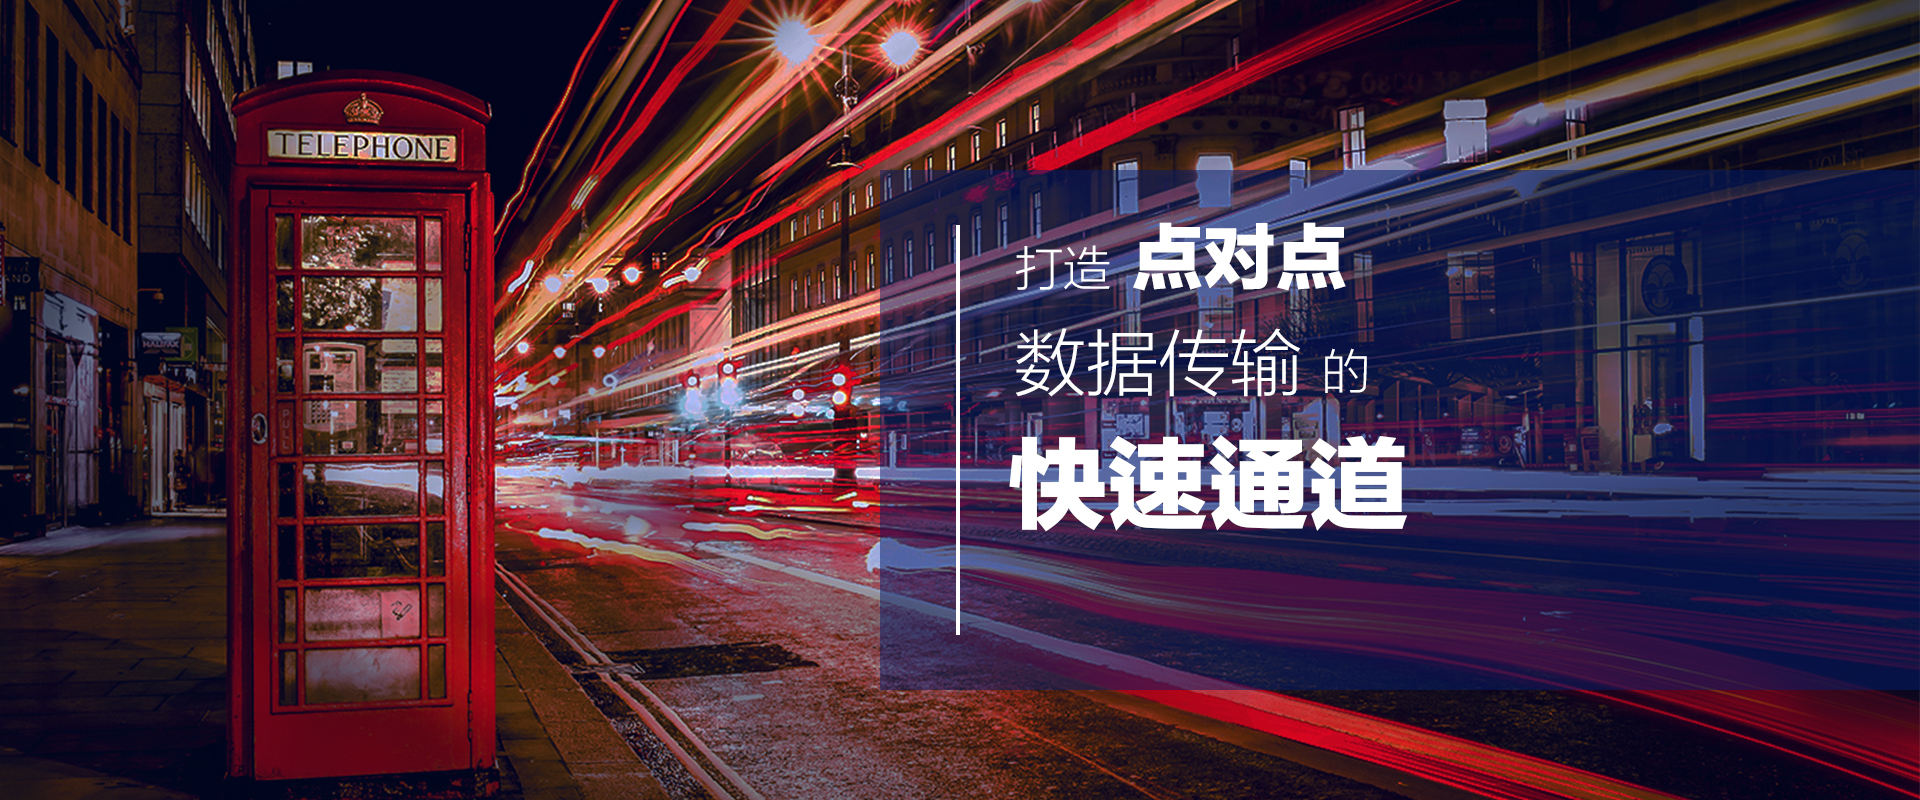
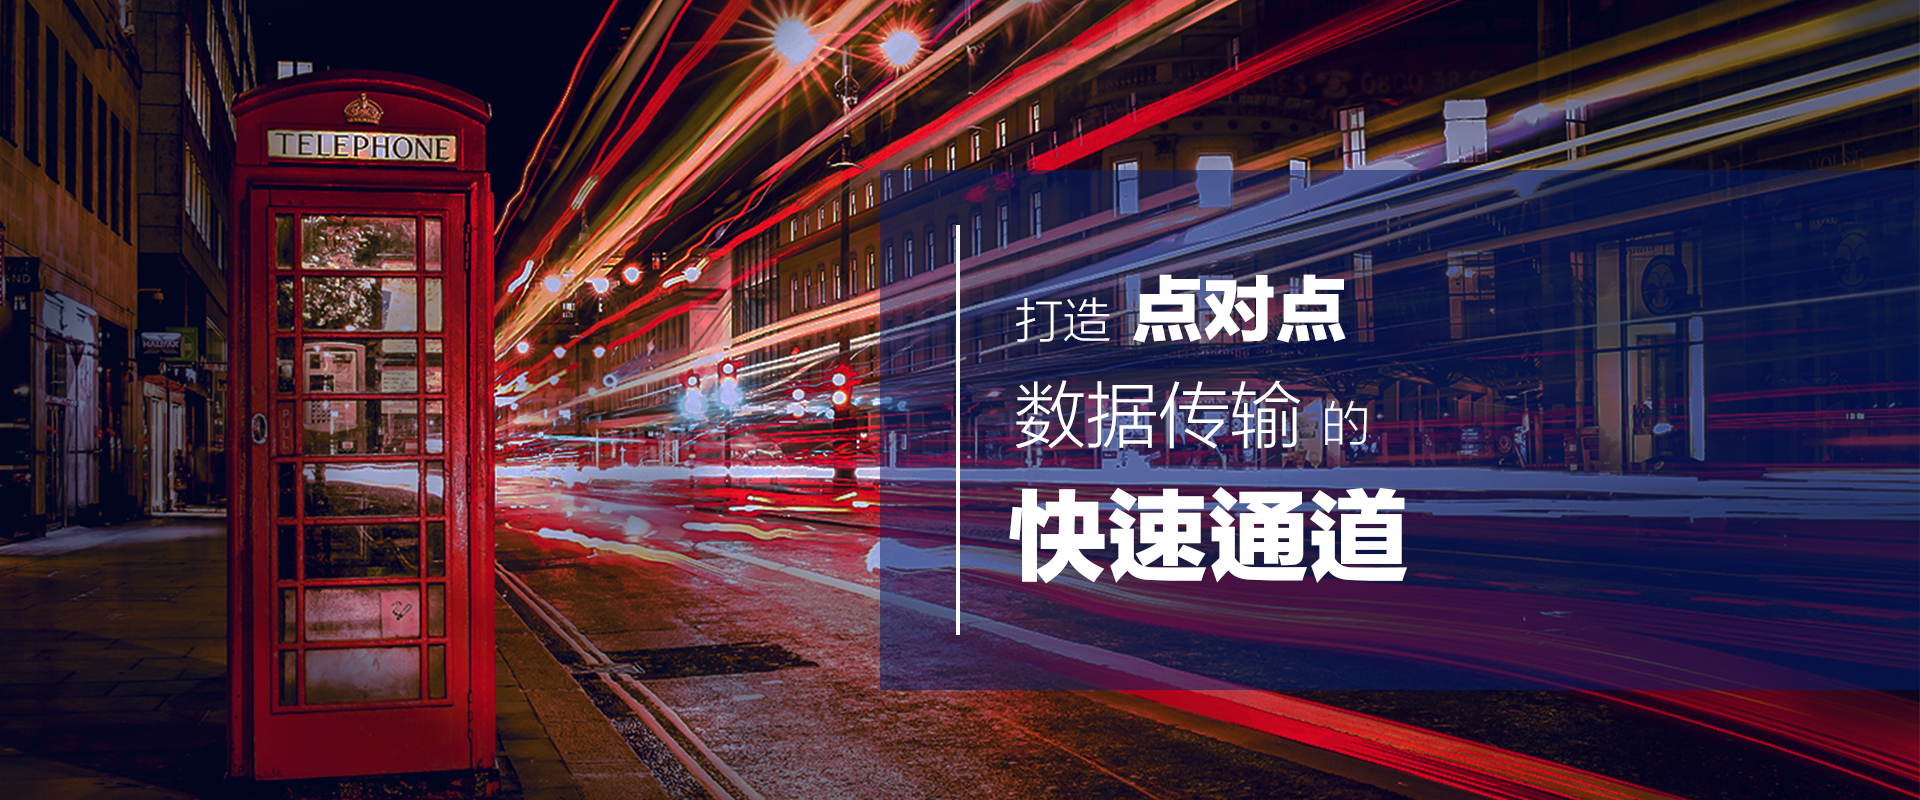
新增首页返回顶部按钮

Changed region(s): [[0.5, 0.2812, 0.75, 0.75]]

diff --git a/pages/carousel/smallCarousel.html b/pages/carousel/smallCarousel.html
@@ -19,26 +19,24 @@
     }
     #sectionOfSmall0 {
         position: relative;
-        background-image: url('img/banner/bannerOfSmall1.png');
+        background-image: url('img/banner/banner1_S.jpg');
         height: 100%;
         background-size: 100% 600px;
         background-clip: content-box;
     }
     #topSectionOfSmall0{
-        background: url('img/banner/topBannerOfSmall1.png') no-repeat;
         height: 600px;
         width: 594px;
         position: relative;
     }
     #sectionOfSmall1 {
         position: relative;
-        background-image: url('img/banner/bannerOfSmall2.png');
+        background-image: url('img/banner/banner2_S.jpg');
         height: 100%;
         background-size: 100% 600px;
         background-clip: content-box;
     }
     #topSectionOfSamll1 {
-        background: url('img/banner/topBannerOfSamll2.png') no-repeat;
         height: 460px;
         width: 748px;
         position: relative;
@@ -56,20 +54,19 @@
     }
     #sectionOfSmall2 {
         position: relative;
-        background-image: url('img/banner/bannerOfSmall3.png');
+        background-image: url('img/banner/banner3_S.jpg');
         height: 100%;
         background-size: 100% 600px;
         background-clip: content-box;
     }
     #topSectionOfSmall2 {
-        background: url('img/banner/topBannerOfSmall3.png') no-repeat;
         height: 530px;
         width: 520px;
         position: relative;
     }
     #sectionOfSmall2Button{
         top: 83%;
-        left: 60%;
+        left: 50%;
         height: 50px;
         width: 160px;
         background: url('img/banner/detailHoverBtn.png');

diff --git a/config/layer.js b/config/layer.js
@@ -3382,21 +3382,21 @@ var constructionLayer ={
             "filter": ["all", ["in", "capital", 0], ["==", "type", 0]]
         },
         {
-            id: 'construction_Layer',
-            type: 'symbol',
-            interactive: true,
+            "id": "construction_Layer",
+            "type": "symbol",
+            "interactive": true,
             "source" : "construction",
-            'source-layer': 'construction',
-            minzoom: 0,
-            maxzoom: 17.1,
-            layout:
+            "source-layer": "construction",
+            "minzoom": 0,
+            "maxzoom": 17.1,
+            "layout":
                 {
-                    'icon-image': 'constructionIcon',
-                    'icon-size': 0.4,
+                    "icon-image": "constructionIcon",
+                    "icon-size": 0.4,
                 },
-            paint:
+            "paint":
                 {
-                    'icon-color': '#ff2d2d',
+                    "icon-color": "#ff2d2d",
                 },
 
         }]

diff --git a/js/index.js b/js/index.js
@@ -29,14 +29,20 @@ function redirectingAPi() {
 }
 
 function setNavbarBackground() {
-    var navbar = $('nav-bar');
     var body = $('body');
-    var banner = $('#banner');
-    if(body && navbar[0].children[0]){
-        if(body[0].scrollTop > (banner[0].clientHeight -44)){ // 44px为导航栏高度
-            navbar[0].children[0].style.background = '#25396e';
+    var btn = $('#backToTop');
+    if(body && btn ){
+        if(body[0].scrollTop > 0){
+            btn.show(200);
         }else {
-            navbar[0].children[0].style.background = 'none';
+            btn.hide(200);
         }
     }
 }
+$(function () {
+   var btn = $('#backToTop');
+   btn.on('click',function () {
+       var body = $('body');
+       body.animate({scrollTop: 0}, 200);
+   })
+});

diff --git a/index.html b/index.html
@@ -15,7 +15,7 @@
 
     </style>
 </head>
-<body ng-controller="indexpageCtrl"   onscroll = setNavbarBackground() >
+<body style="min-width: 1280px" ng-controller="indexpageCtrl"   onscroll = setNavbarBackground() >
 <nav-bar relative-hash="relativeHash" loc="locFlag"></nav-bar>
 <div id="banner">
     <!--<div class="sections" style="height: 800px">-->
@@ -288,6 +288,8 @@
       <!--<span>|</span>-->
       <!--<a href="http://www.navinfo.com" target="_blank" style="color:rgba(255,255,255,0.5)">关于我们</a>-->
   </div>
+</div>
+<div id="backToTop" title="返回顶部">
 </div>
 </body>
 <!-- build:js js/index.js -->

diff --git a/style/index.css b/style/index.css
@@ -677,3 +677,23 @@ tr>td {
         background-size:cover;
     }
 }
+/**************************返回顶部*******************************/
+#backToTop{
+    position: fixed;
+    right: 40px;
+    bottom: 40px;
+    z-index: 50;
+    width: 40px;
+    height:40px;
+    display: none;
+    cursor: pointer;
+    background-size: cover;
+    background-image: url("../img/button_totop_normal.png");
+}
+#backToTop:hover{
+    background-image: url("../img/button_totop_active.png");
+}
+#backToTop:active{
+    background-image: url("../img/button_totop_active.png");
+
+}

diff --git a/js/directives/nav/nav.html b/js/directives/nav/nav.html
@@ -1,4 +1,4 @@
-<div style="width: 100%;min-width:1280px;position: fixed;z-index:100;background: #25396e; height: 44px;" ng-style="navbarbg">
+<div style="width: 100%;min-width:1280px;position: absolute;z-index:100;top:0;left: 0;background: #25396e; height: 44px;" ng-style="navbarbg">
     <div style="padding: 0 210px;">
         <div id="logo" style="margin-top: 4px">
         </div>
